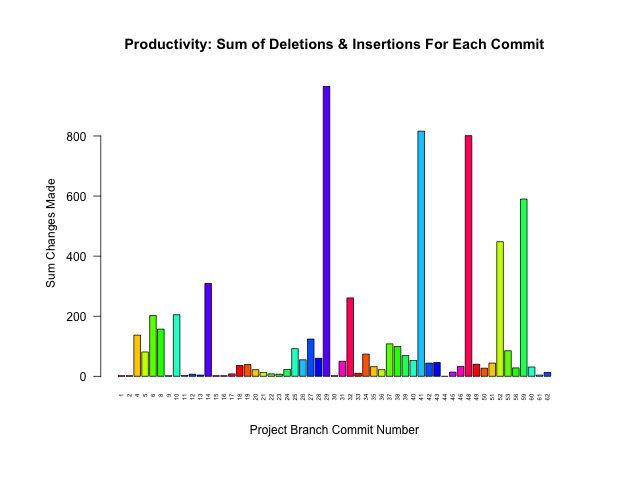
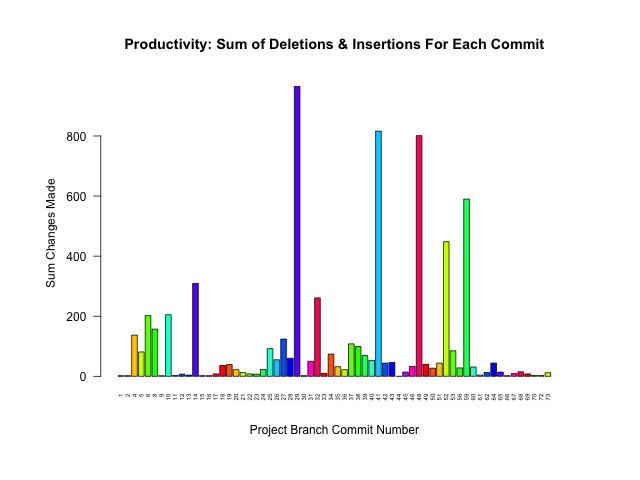
COMMIT #255

Changed region(s): [[0.1875, 0.1562, 0.875, 0.8438]]

diff --git a/README.md b/README.md
@@ -17,8 +17,8 @@ ProjectName::BranchName.data
 
 Project Name | Last Updated | # Commits | # Branches | Branches Merged
 :---|:---:|:---:|:---:|:---:
-[FASTQ_examiner](https://github.com/pierremigeon/FASTQ_examiner)                                    |  2023-07-19  |  70   |  4  |  50%   (2/4)
-[commit_tracker](https://github.com/pierremigeon/commit_tracker)                                    |  2023-07-19  |  253  |  1  |  100%  (1/1)
+[FASTQ_examiner](https://github.com/pierremigeon/FASTQ_examiner)                                    |  2023-07-20  |  73   |  4  |  75%   (3/4)
+[commit_tracker](https://github.com/pierremigeon/commit_tracker)                                    |  2023-07-19  |  254  |  1  |  100%  (1/1)
 [Algorithms_practice](https://github.com/pierremigeon/Algorithms_practice)                          |  2023-07-18  |  14   |  6  |  83%   (5/6)
 [learn_some_C.Plus.Plus](https://github.com/pierremigeon/learn_some_C.Plus.Plus)                    |  2023-07-17  |  79   |  2  |  50%   (1/2)
 [libft](https://github.com/pierremigeon/libft)                                                      |  2023-06-05  |  30   |  2  |  50%   (1/2)

diff --git a/FASTQ_examiner_project/readme.md b/FASTQ_examiner_project/readme.md
@@ -1,1 +1,1 @@
-![test_image](https://github.com/pierremigeon/commit_tracker/blob/master/FASTQ_examiner_project/FASTQ_examiner::table.data_sum_barplot.png)
+![test_image](https://github.com/pierremigeon/commit_tracker/blob/master/FASTQ_examiner_project/FASTQ_examiner::master.data_sum_barplot.png)
